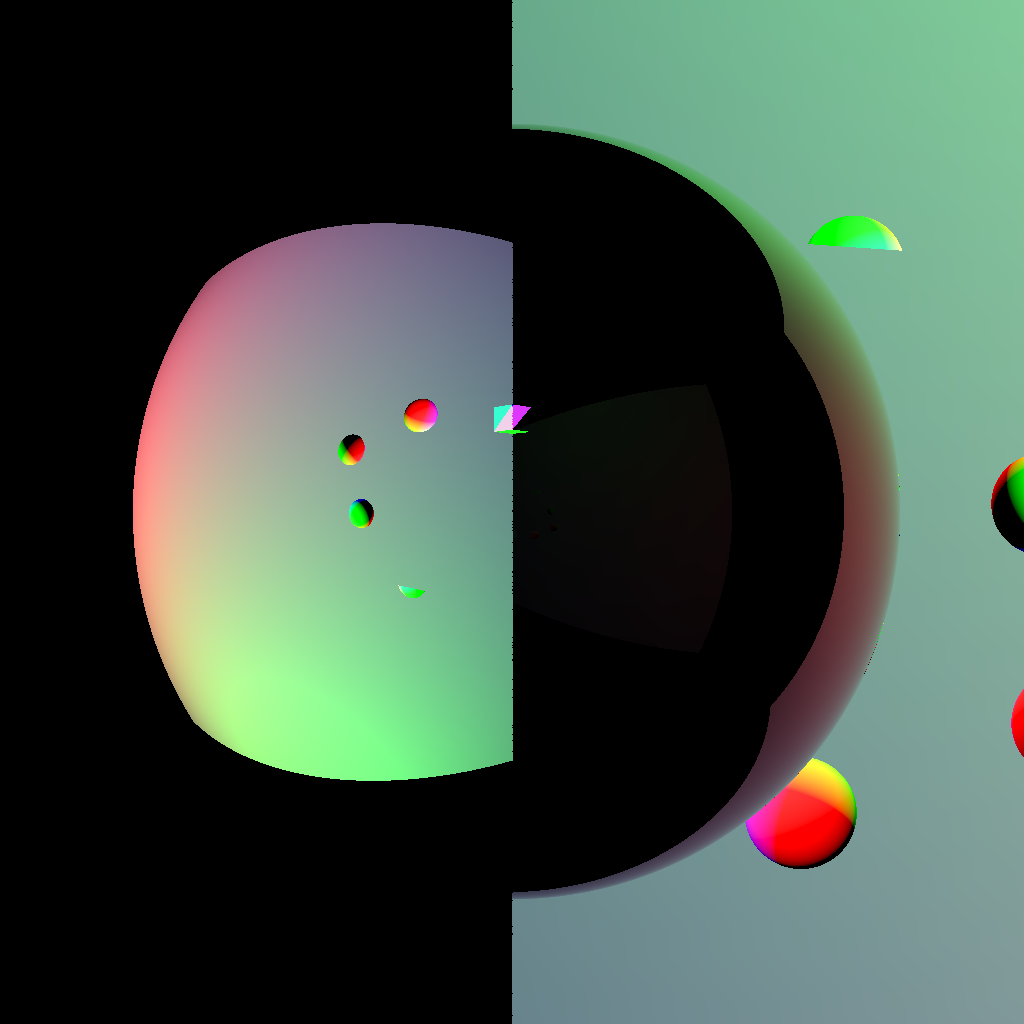
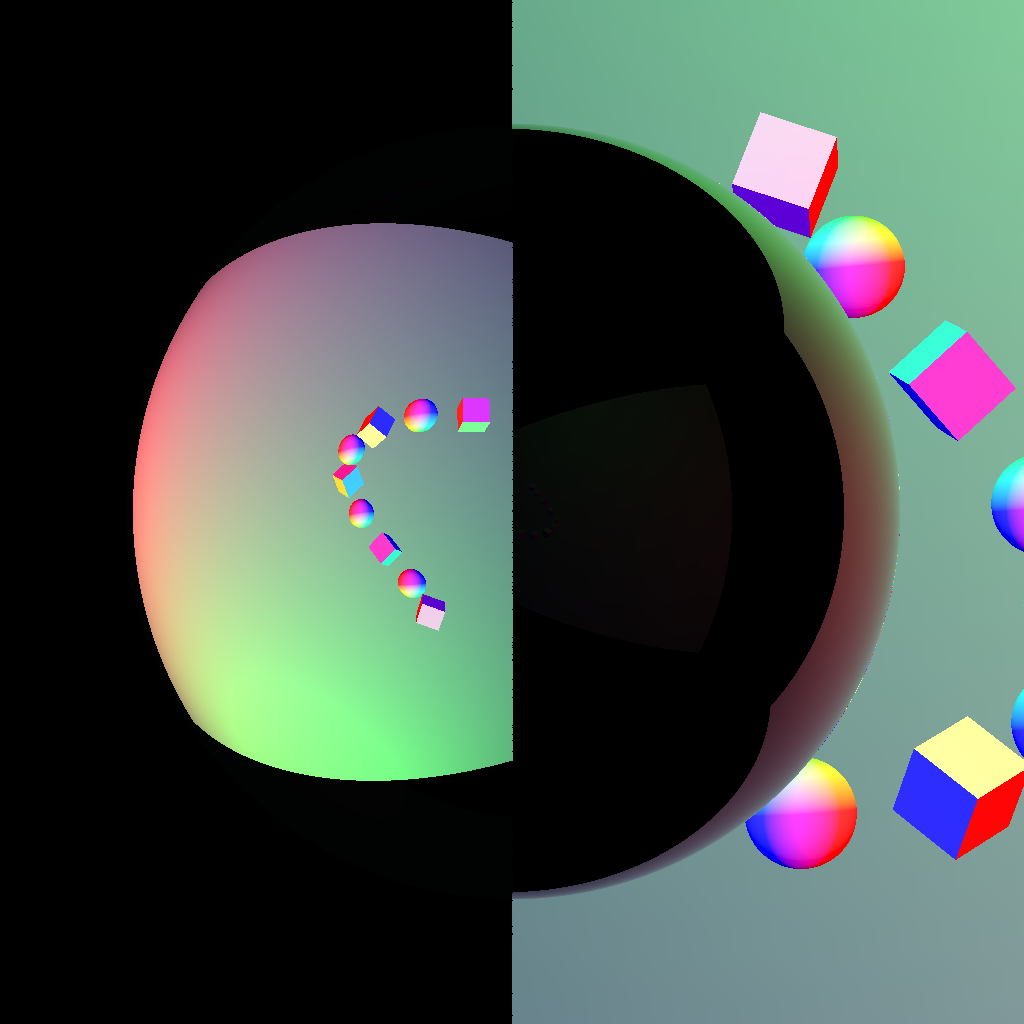
glaze + bunny fixed

diff --git a/CS4620/src/cs4620/ray2/surface/Group.java b/CS4620/src/cs4620/ray2/surface/Group.java
@@ -5,8 +5,12 @@ import java.util.Iterator;
 
 import cs4620.ray2.IntersectionRecord;
 import cs4620.ray2.Ray;
+import egl.math.Matrix3;
+import egl.math.Matrix3d;
 import egl.math.Matrix4d;
+import egl.math.Quat;
 import egl.math.Vector3d;
+import egl.math.Vector4;
 
 public class Group extends Surface {
 
@@ -34,16 +38,17 @@ public class Group extends Surface {
     // TODO#A7: Compute tMat, tMatInv, tMatTInv using transformMat.
     // Hint: We apply the transformation from bottom up the tree. 
     // i.e. The child's transformation will be applied to objects before its parent's.
-	  tMat = pMat.clone().mulBefore(transformMat);
-	  tMatInv = tMat.clone().invert();
-	  tMatTInv = tMat.clone().transpose().invert();
-    
+	  
+	  tMat = (new Matrix4d(pMat)).mulBefore(transformMat);
+	  tMatInv = (new Matrix4d(pMatInv)).mulAfter((new Matrix4d(transformMat)).invert());
+	  tMatTInv = (new Matrix4d(pMatTInv)).mulBefore((new Matrix4d(transformMat)).transpose().invert());
+	  
     // TODO#A7: Call setTransformation(tMat, tMatInv, tMatTInv) on each of the children.
 	  for(Surface s : objs){
-		  s.setTransformation(tMat, tMatInv, tMatTInv);
+		  s.setTransformation(new Matrix4d(tMat), new Matrix4d(tMatInv), new Matrix4d(tMatTInv));
 	  }
 	  
-	computeBoundingBox();
+	  computeBoundingBox();
   }
   
   

diff --git a/CS4620/src/cs4620/ray2/shader/Glazed.java b/CS4620/src/cs4620/ray2/shader/Glazed.java
@@ -6,6 +6,7 @@ import cs4620.ray2.IntersectionRecord;
 import cs4620.ray2.Ray;
 import cs4620.ray2.Scene;
 import egl.math.Colord;
+import egl.math.Vector2d;
 import egl.math.Vector3d;
 
 /**
@@ -54,11 +55,23 @@ public class Glazed extends Shader {
 		Vector3d normal = new Vector3d(record.normal);
 		Vector3d view = (new Vector3d(ray.direction)).negate();
 		view.normalize();
+		Vector3d o = (new Vector3d(normal)).cross(view);
+		Vector3d b = (new Vector3d(o)).cross(normal);
+		
+		//useful vectors
 		Vector3d reflectDir = ((new Vector3d(normal)).mul(2).mul(normal.dot(view))).sub(view);
 		double r = fresnel(normal, view, refractiveIndex);
 		
-		//reflection
-		Ray reflection = new Ray(record.location, reflectDir);
+		//for debugging
+		Vector2d V = new Vector2d(view.dot(b), view.dot(normal));
+		Vector2d R = new Vector2d(reflectDir.dot(b), reflectDir.dot(normal));
+		double viewingAngle = view.angle(normal);
+		double reflectiveAngle = reflectDir.angle(normal);
+		
+		//reflection - make v's new
+		Ray reflection = new Ray(new Vector3d(record.location), new Vector3d(reflectDir));
+		reflection.makeOffsetRay();
+		//reflection.end = Double.POSITIVE_INFINITY;
 		Colord reflC = new Colord();
 		RayTracer.shadeRay(reflC, scene, reflection, depth + 1);
 		

diff --git a/CS4620/src/cs4620/ray2/surface/Surface.java b/CS4620/src/cs4620/ray2/surface/Surface.java
@@ -7,8 +7,12 @@ import cs4620.ray2.IntersectionRecord;
 import cs4620.ray2.Ray;
 import cs4620.ray2.shader.Shader;
 import egl.math.Colord;
+import egl.math.Matrix3;
+import egl.math.Matrix3d;
 import egl.math.Matrix4d;
+import egl.math.Quat;
 import egl.math.Vector3d;
+import egl.math.Vector4;
 
 /**
  * Abstract base class for all surfaces.  Provides access for shader and
@@ -62,10 +66,28 @@ public abstract class Surface {
 		return ray;
 	}
 	
+	protected void debugTransformation(){
+		System.out.println(toString());
+		  System.out.println("Translation: " + tMat.getTrans());
+		  Matrix3d axes = new Matrix3d(tMat.getAxes());
+		  float[] b = new float[9];
+		  for(int i = 0; i < axes.m.length; i++){
+			  b[i] = (float) axes.m[i];
+		  }
+		  Matrix3 convert = new Matrix3(b);
+		  Matrix3 scale = new Matrix3();
+		  Matrix3 rotation = new Matrix3();
+		  convert.polar_decomp(rotation, scale);
+		  System.out.println("Rotation (axis-angle): " + (new Quat(rotation)).toAxisAngle(new Vector4()));
+		  System.out.println("Scale: " + scale);
+		  System.out.println();
+	}
+	
 	public void setTransformation(Matrix4d a, Matrix4d aInv, Matrix4d aTInv) {
 		tMat = a;
 		tMatInv = aInv;
 		tMatTInv = aTInv;
+		
 		computeBoundingBox();
 	}
 	

diff --git a/CS4620/src/cs4620/ray2/surface/Triangle.java b/CS4620/src/cs4620/ray2/surface/Triangle.java
@@ -65,12 +65,18 @@ public class Triangle extends Surface {
 	public boolean intersect(IntersectionRecord outRecord, Ray rayIn) {
 	  	//TODO#A7: Modify the intersect method: transform the ray to object space
 	  	//transform the resulting intersection point and normal to world space
-		
-		Ray ray = new Ray(rayIn);		
-		untransformRay(ray);
+				
+		Ray ray = untransformRay(rayIn);
 		
 		////code past this point not mine!
 		Vector3d v0 = owner.getPosition(index.x).clone();
+		
+		//and to test
+		
+		if(index.equals(new Vector3i(2, 5, 6))){
+			Vector3d v1 = owner.getPosition(index.y).clone();
+			Vector3d v2 = owner.getPosition(index.z).clone();
+		}
 		
 		double g = ray.direction.x;
 		double h = ray.direction.y;
@@ -162,6 +168,9 @@ public class Triangle extends Surface {
 		averagePosition = tri[0].add(tri[1]).add(tri[2]).mul(1.0/3.0);
 		// TODO#A7: Compute the bounding box and store the result in
 		// averagePosition, minBound, and maxBound.
+		
+//		minBound.set(Double.NEGATIVE_INFINITY);
+//		maxBound.set(Double.POSITIVE_INFINITY);
 	}
 
 	/**

diff --git a/CS4620/src/cs4620/ray2/surface/Sphere.java b/CS4620/src/cs4620/ray2/surface/Sphere.java
@@ -47,8 +47,7 @@ public class Sphere extends Surface {
 	  	//transform the resulting intersection point and normal to world space
 
 		//transform the ray into object space
-		Ray ray = new Ray(rayIn);
-		untransformRay(ray);
+		Ray ray = untransformRay(rayIn);
 		
 		// Rename the common vectors so I don't have to type so much
 		Vector3d d = ray.direction;
@@ -109,7 +108,7 @@ public class Sphere extends Surface {
 	}
 
 	public void computeBoundingBox() {
-		averagePosition = tMat.mulPos(center);
+		averagePosition = tMat.mulPos(new Vector3d(center));
 		
 		Vector3d[] minimax = new Vector3d[]{
 			(new Vector3d(center)).sub(radius), (new Vector3d(center)).add(radius)
@@ -138,7 +137,7 @@ public class Sphere extends Surface {
 		
 //		minBound = new Vector3d(Double.MAX_VALUE);
 //		maxBound = new Vector3d(Double.MIN_VALUE);
-//		
+////		
 //		for(int i = 0; i < box.length; i++){
 //			minBound.set(Math.min(minBound.x, box[i].x), Math.min(minBound.y, box[i].y), 
 //					Math.min(minBound.z, box[i].z));

diff --git a/CS4620/src/cs4620/ray2/accel/BvhNode.java b/CS4620/src/cs4620/ray2/accel/BvhNode.java
@@ -100,7 +100,7 @@ public class BvhNode {
 		double tEnd = Math.min(Math.min(tExit.x, tExit.y), Math.min(tExit.z, rEnd));
 		
 		return tStart < tEnd;
-		
+		//return true;
 //		//localize ray coordinates
 //		Vector3d min = (new Vector3d(minBound)).sub(ray.origin);
 //		Vector3d max = (new Vector3d(maxBound)).sub(ray.origin);
@@ -133,8 +133,8 @@ public class BvhNode {
 		// Check whether the given ray intersects the AABB of this BvhNode
 	}
 	
-	//checks that the first element of box is within the square delimited by the other two
-	private boolean intersectSq(double ptx, double pty, double minx, double miny, double maxx, double maxy){
-		return (ptx > minx && ptx < maxx && pty > miny && pty < maxy);
-	}
+//	//checks that the first element of box is within the square delimited by the other two
+//	private boolean intersectSq(double ptx, double pty, double minx, double miny, double maxx, double maxy){
+//		return (ptx > minx && ptx < maxx && pty > miny && pty < maxy);
+//	}
 }

diff --git a/CS4620/src/cs4620/ray2/surface/Box.java b/CS4620/src/cs4620/ray2/surface/Box.java
@@ -97,8 +97,8 @@ public class Box extends Surface {
 					Math.max(maxBound.z, pts[i].z));
 		}
 		
-		minBound.set(Double.MIN_VALUE);
-		maxBound.set(Double.MAX_VALUE);
+//		minBound.set(Double.MIN_VALUE);
+//		maxBound.set(Double.MAX_VALUE);
 		
 		// TODO#A7: Compute the bounding box and store the result in
 		// averagePosition, minBound, and maxBound.
@@ -118,11 +118,15 @@ public class Box extends Surface {
 		mesh.appendRenderableSurfaces(in);
 	}
 
+	private String debugPrint(){
+		return minPt + " " + maxPt;
+	}
+	
 	/**
 	 * @see Object#toString()
 	 */
 	public String toString() {
-		return "Box ";
+		return "Box " + debugPrint();
 	}
 
 }

diff --git a/CS4620/src/cs4620/ray2/RayTracer.java b/CS4620/src/cs4620/ray2/RayTracer.java
@@ -290,7 +290,7 @@ public class RayTracer {
 
 		if(depth > MAX_DEPTH)
 			return;
-		if(depth > 5) return; //to speed testing
+		//if(depth > 5) return; //to speed testing
 
 		IntersectionRecord intersectionRecord = new IntersectionRecord();
 
@@ -363,6 +363,7 @@ public class RayTracer {
 				
 				cam.getRay(ray,  (double) x / width, (double) y / height);
 				//cam.getRay(ray, 0.5, 0.5);
+				//cam.getRay(ray, 0.6, 0.45);
 				shadeRay(rayColor, scene, ray, 1);
 				pixelColor.add(rayColor);
 			

diff --git a/CS4620/src/cs4620/ray2/surface/Cylinder.java b/CS4620/src/cs4620/ray2/surface/Cylinder.java
@@ -47,8 +47,7 @@ public class Cylinder extends Surface {
 		//TODO#A7: Modify the intersect method: 
 		//1. transform the ray to object space (use untransformRay)
 		//2. transform the resulting intersection point and normal to world space		  
-		Ray ray = new Ray(rayIn);
-		untransformRay(ray);
+		Ray ray = untransformRay(rayIn);
 
 		// Rename the common vectors so I don't have to type so much
 		Vector3d d = ray.direction;
